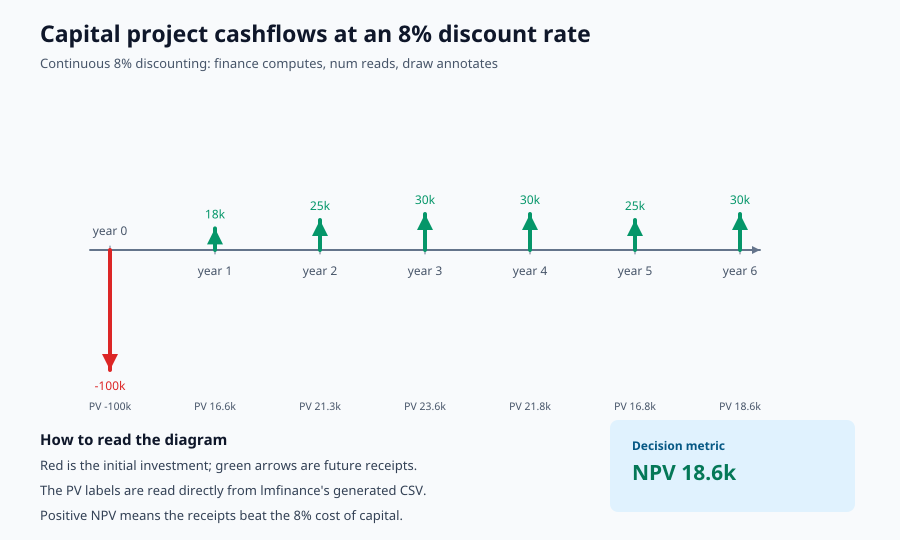
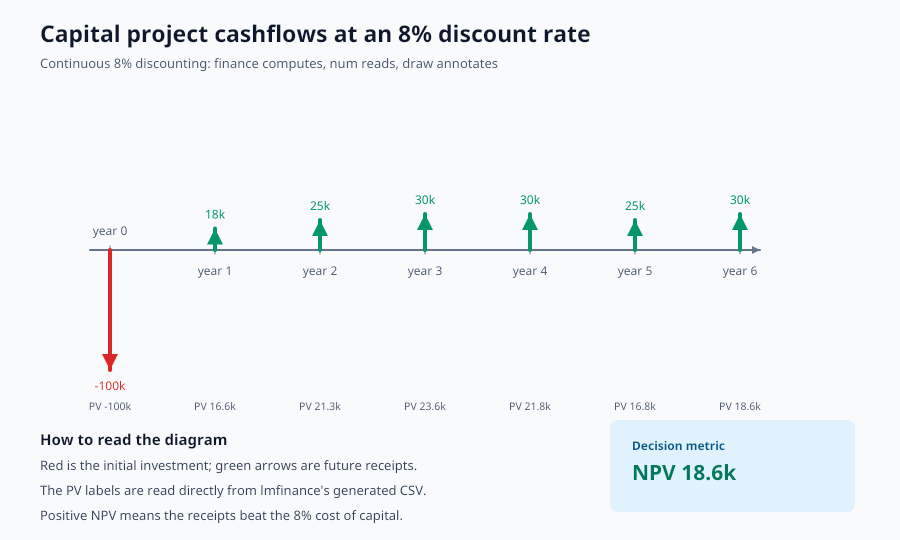
Migrate seven legacy-host compositions to lmvideo v0.1.36
02, 05, 11, 13 (lmdraw), 14, 34 (lmimg) and 38 (lmmagnum) now render with
lmvideo v0.1.36, reusing the verified ports from lmctlhq/lmvideo
examples/compositions. Pictures regenerated for 02/05/11/13/14 (font-metric
and antialiasing deltas only); 34/38 keep their committed slide renders.
Evidence: durable-memory/11-phase-7-2-gallery-migration.md.

diff --git a/README.md b/README.md
@@ -50,13 +50,13 @@ Each program installs its declared hosts on first use, executes every DSL block,
 
 |  |  |
 | :---: | :---: |
-| <a href="examples/01-oscillator-ode-plot.lms"><img src="docs/images/showcase-01-oscillator.png" width="420" alt="Damped oscillator dashboard"></a><br>**Damped oscillator dashboard** · lmnum → lmplot<br><sub><code>lmctl https://raw.githubusercontent.com/lmctl-ai/lmgallery/main/examples/01-oscillator-ode-plot.lms</code></sub> | <a href="examples/02-finance-cashflows-draw.lms"><img src="docs/images/showcase-02-finance-cashflows.png" width="420" alt="Discounted project cashflows"></a><br>**Discounted project cashflows** · lmfinance → lmnum → lmdraw<br><sub><code>lmctl https://raw.githubusercontent.com/lmctl-ai/lmgallery/main/examples/02-finance-cashflows-draw.lms</code></sub> |
+| <a href="examples/01-oscillator-ode-plot.lms"><img src="docs/images/showcase-01-oscillator.png" width="420" alt="Damped oscillator dashboard"></a><br>**Damped oscillator dashboard** · lmnum → lmplot<br><sub><code>lmctl https://raw.githubusercontent.com/lmctl-ai/lmgallery/main/examples/01-oscillator-ode-plot.lms</code></sub> | <a href="examples/02-finance-cashflows-draw.lms"><img src="docs/images/showcase-02-finance-cashflows.png" width="420" alt="Discounted project cashflows"></a><br>**Discounted project cashflows** · lmfinance → lmnum → lmvideo<br><sub><code>lmctl https://raw.githubusercontent.com/lmctl-ai/lmgallery/main/examples/02-finance-cashflows-draw.lms</code></sub> |
 | <a href="examples/03-weather-pulse-plot.lms"><img src="docs/images/showcase-03-weather-pulse.png" width="420" alt="Shallow-water gravity pulse"></a><br>**Shallow-water gravity pulse** · lmweather → lmplot<br><sub><code>lmctl https://raw.githubusercontent.com/lmctl-ai/lmgallery/main/examples/03-weather-pulse-plot.lms</code></sub> | <a href="examples/04-space-orbit-cad.lms"><img src="docs/images/showcase-04-space-orbit-cad.png" width="420" alt="Hohmann transfer: equal-time markers"></a><br>**Hohmann transfer: equal-time markers** · lmspace → lmcad<br><sub><code>lmctl https://raw.githubusercontent.com/lmctl-ai/lmgallery/main/examples/04-space-orbit-cad.lms</code></sub> |
-| <a href="examples/05-physics-free-body.lms"><img src="docs/images/showcase-05-physics-free-body.png" width="420" alt="Cargo-ramp force balance"></a><br>**Cargo-ramp force balance** · lmphysics → lmdraw<br><sub><code>lmctl https://raw.githubusercontent.com/lmctl-ai/lmgallery/main/examples/05-physics-free-body.lms</code></sub> | <a href="examples/06-fluid-poisson-plot.lms"><img src="docs/images/showcase-06-fluid-poisson-plot.png" width="420" alt="Finite-element Poisson field"></a><br>**Finite-element Poisson field** · lmfluid → lmplot<br><sub><code>lmctl https://raw.githubusercontent.com/lmctl-ai/lmgallery/main/examples/06-fluid-poisson-plot.lms</code></sub> |
+| <a href="examples/05-physics-free-body.lms"><img src="docs/images/showcase-05-physics-free-body.png" width="420" alt="Cargo-ramp force balance"></a><br>**Cargo-ramp force balance** · lmphysics → lmvideo<br><sub><code>lmctl https://raw.githubusercontent.com/lmctl-ai/lmgallery/main/examples/05-physics-free-body.lms</code></sub> | <a href="examples/06-fluid-poisson-plot.lms"><img src="docs/images/showcase-06-fluid-poisson-plot.png" width="420" alt="Finite-element Poisson field"></a><br>**Finite-element Poisson field** · lmfluid → lmplot<br><sub><code>lmctl https://raw.githubusercontent.com/lmctl-ai/lmgallery/main/examples/06-fluid-poisson-plot.lms</code></sub> |
 | <a href="examples/07-enzyme-response.lms"><img src="docs/images/showcase-07-enzyme-response.png" width="420" alt="Michaelis-Menten from mechanism"></a><br>**Michaelis-Menten from mechanism** · lmbio → lmplot<br><sub><code>lmctl https://raw.githubusercontent.com/lmctl-ai/lmgallery/main/examples/07-enzyme-response.lms</code></sub> | <a href="examples/08-cell-pattern.lms"><img src="docs/images/showcase-08-cell-pattern.png" width="420" alt="Cell growth and motility"></a><br>**Cell growth and motility** · lmcell → lmplot<br><sub><code>lmctl https://raw.githubusercontent.com/lmctl-ai/lmgallery/main/examples/08-cell-pattern.lms</code></sub> |
 | <a href="examples/09-photon-transport.lms"><img src="docs/images/showcase-09-photon-transport.png" width="420" alt="Photon attenuation and build-up in water"></a><br>**Photon attenuation and build-up in water** · lmparticle → lmplot<br><sub><code>lmctl https://raw.githubusercontent.com/lmctl-ai/lmgallery/main/examples/09-photon-transport.lms</code></sub> | <a href="examples/10-molecule-dimer-cad.lms"><img src="docs/images/showcase-10-molecule-dimer-cad.png" width="420" alt="Water dimer: hydrogen bond in 3D"></a><br>**Water dimer: hydrogen bond in 3D** · lmmolecule → lmcad → lmplot<br><sub><code>lmctl https://raw.githubusercontent.com/lmctl-ai/lmgallery/main/examples/10-molecule-dimer-cad.lms</code></sub> |
-| <a href="examples/11-particle-shield-layout.lms"><img src="docs/images/showcase-11-particle-shield-layout.png" width="420" alt="Shielding by mass: lead, aluminum, water"></a><br>**Shielding by mass: lead, aluminum, water** · lmparticle → lmdraw → lmplot<br><sub><code>lmctl https://raw.githubusercontent.com/lmctl-ai/lmgallery/main/examples/11-particle-shield-layout.lms</code></sub> | <a href="examples/12-weather-adjustment-gif.lms"><img src="docs/images/showcase-12-weather-adjustment.gif" width="420" alt="Geostrophic adjustment, animated"></a><br>**Geostrophic adjustment, animated** · lmweather → lmplot<br><sub><code>lmctl https://raw.githubusercontent.com/lmctl-ai/lmgallery/main/examples/12-weather-adjustment-gif.lms</code></sub> |
-| <a href="examples/13-bio-dosing-regimen.lms"><img src="docs/images/showcase-13-bio-dosing-regimen.png" width="420" alt="Dosing regimen inside a therapeutic window"></a><br>**Dosing regimen inside a therapeutic window** · lmbio → lmdraw → lmplot<br><sub><code>lmctl https://raw.githubusercontent.com/lmctl-ai/lmgallery/main/examples/13-bio-dosing-regimen.lms</code></sub> | <a href="examples/14-num-sweep-contact-sheet.lms"><img src="docs/images/showcase-14-num-sweep-contact-sheet.png" width="420" alt="Damping-ratio sweep as a contact sheet"></a><br>**Damping-ratio sweep as a contact sheet** · lmnum → lmplot → lmimg<br><sub><code>lmctl https://raw.githubusercontent.com/lmctl-ai/lmgallery/main/examples/14-num-sweep-contact-sheet.lms</code></sub> |
+| <a href="examples/11-particle-shield-layout.lms"><img src="docs/images/showcase-11-particle-shield-layout.png" width="420" alt="Shielding by mass: lead, aluminum, water"></a><br>**Shielding by mass: lead, aluminum, water** · lmparticle → lmvideo → lmplot<br><sub><code>lmctl https://raw.githubusercontent.com/lmctl-ai/lmgallery/main/examples/11-particle-shield-layout.lms</code></sub> | <a href="examples/12-weather-adjustment-gif.lms"><img src="docs/images/showcase-12-weather-adjustment.gif" width="420" alt="Geostrophic adjustment, animated"></a><br>**Geostrophic adjustment, animated** · lmweather → lmplot<br><sub><code>lmctl https://raw.githubusercontent.com/lmctl-ai/lmgallery/main/examples/12-weather-adjustment-gif.lms</code></sub> |
+| <a href="examples/13-bio-dosing-regimen.lms"><img src="docs/images/showcase-13-bio-dosing-regimen.png" width="420" alt="Dosing regimen inside a therapeutic window"></a><br>**Dosing regimen inside a therapeutic window** · lmbio → lmvideo → lmplot<br><sub><code>lmctl https://raw.githubusercontent.com/lmctl-ai/lmgallery/main/examples/13-bio-dosing-regimen.lms</code></sub> | <a href="examples/14-num-sweep-contact-sheet.lms"><img src="docs/images/showcase-14-num-sweep-contact-sheet.png" width="420" alt="Damping-ratio sweep as a contact sheet"></a><br>**Damping-ratio sweep as a contact sheet** · lmnum → lmplot → lmvideo<br><sub><code>lmctl https://raw.githubusercontent.com/lmctl-ai/lmgallery/main/examples/14-num-sweep-contact-sheet.lms</code></sub> |
 | <a href="examples/15-audio-eq-measurement.lms"><img src="docs/images/showcase-15-audio-eq-measurement.png" width="420" alt="Equalizer: designed versus measured"></a><br>**Equalizer: designed versus measured** · lmaudio → lmplot<br><sub><code>lmctl https://raw.githubusercontent.com/lmctl-ai/lmgallery/main/examples/15-audio-eq-measurement.lms</code></sub> | <a href="examples/16-kepler-conservation.lms"><img src="docs/images/showcase-16-kepler-conservation.png" width="420" alt="Kepler orbit energy check"></a><br>**Kepler orbit energy check** · lmspace → lmplot<br><sub><code>lmctl https://raw.githubusercontent.com/lmctl-ai/lmgallery/main/examples/16-kepler-conservation.lms</code></sub> |
 | <a href="examples/17-oscillator-driven-transient.lms"><img src="docs/images/showcase-17-oscillator-driven.png" width="420" alt="Driven oscillator: transient to steady state"></a><br>**Driven oscillator: transient to steady state** · lmnum → lmplot<br><sub><code>lmctl https://raw.githubusercontent.com/lmctl-ai/lmgallery/main/examples/17-oscillator-driven-transient.lms</code></sub> | <a href="examples/18-rigid-body-intermediate-axis.lms"><img src="docs/images/showcase-18-rigid-body-intermediate-axis.png" width="420" alt="Intermediate-axis tumble of a free plate"></a><br>**Intermediate-axis tumble of a free plate** · lmphysics → lmplot<br><sub><code>lmctl https://raw.githubusercontent.com/lmctl-ai/lmgallery/main/examples/18-rigid-body-intermediate-axis.lms</code></sub> |
 | <a href="examples/19-fem-poisson-error.lms"><img src="docs/images/showcase-19-fem-poisson-error.png" width="420" alt="Finite-element error against a known answer"></a><br>**Finite-element error against a known answer** · lmfluid → lmplot<br><sub><code>lmctl https://raw.githubusercontent.com/lmctl-ai/lmgallery/main/examples/19-fem-poisson-error.lms</code></sub> | <a href="examples/20-heat-spacetime.lms"><img src="docs/images/showcase-20-heat-spacetime.png" width="420" alt="Heat conduction in x and t"></a><br>**Heat conduction in x and t** · lmnum → lmplot<br><sub><code>lmctl https://raw.githubusercontent.com/lmctl-ai/lmgallery/main/examples/20-heat-spacetime.lms</code></sub> |
@@ -66,9 +66,9 @@ Each program installs its declared hosts on first use, executes every DSL block,
 | <a href="examples/27-sales-report-docx.lms"><img src="docs/images/showcase-27-sales-report.png" width="420" alt="Sales report with a chart per section"></a><br>**Sales report with a chart per section** · lmvideo → lmoffice<br><sub><code>lmctl https://raw.githubusercontent.com/lmctl-ai/lmgallery/main/examples/27-sales-report-docx.lms</code></sub> | <a href="examples/28-forecast-workbook-chart.lms"><img src="docs/images/showcase-28-forecast-workbook.png" width="420" alt="Forecast workbook with a native chart"></a><br>**Forecast workbook with a native chart** · lmnum → lmvideo → lmoffice<br><sub><code>lmctl https://raw.githubusercontent.com/lmctl-ai/lmgallery/main/examples/28-forecast-workbook-chart.lms</code></sub> |
 | <a href="examples/29-invoice-logo-glyph.lms"><img src="docs/images/showcase-29-invoice-logo.png" width="420" alt="Invoice with a generated logo and payment glyph"></a><br>**Invoice with a generated logo and payment glyph** · lmvideo → lmoffice<br><sub><code>lmctl https://raw.githubusercontent.com/lmctl-ai/lmgallery/main/examples/29-invoice-logo-glyph.lms</code></sub> | <a href="examples/30-resume-skills-bars.lms"><img src="docs/images/showcase-30-resume-skills.png" width="420" alt="Resume with a skills bar chart"></a><br>**Resume with a skills bar chart** · lmvideo → lmoffice<br><sub><code>lmctl https://raw.githubusercontent.com/lmctl-ai/lmgallery/main/examples/30-resume-skills-bars.lms</code></sub> |
 | <a href="examples/31-science-report-damping.lms"><img src="docs/images/showcase-31-science-report.png" width="420" alt="Science report: damping recovered from simulated peaks"></a><br>**Science report: damping recovered from simulated peaks** · lmnum → lmvideo → lmoffice<br><sub><code>lmctl https://raw.githubusercontent.com/lmctl-ai/lmgallery/main/examples/31-science-report-damping.lms</code></sub> | <a href="examples/32-revenue-bars-currency.lms"><img src="docs/images/showcase-32-revenue-bars.png" width="420" alt="Annual revenue bars with currency ticks"></a><br>**Annual revenue bars with currency ticks** · lmnum → lmplot<br><sub><code>lmctl https://raw.githubusercontent.com/lmctl-ai/lmgallery/main/examples/32-revenue-bars-currency.lms</code></sub> |
-| <a href="examples/33-wave-2d-animation.lms"><img src="docs/images/showcase-33-wave-2d.png" width="420" alt="Standing waves on a membrane, animated"></a><br>**Standing waves on a membrane, animated** · lmnum → lmvideo<br><sub><code>lmctl https://raw.githubusercontent.com/lmctl-ai/lmgallery/main/examples/33-wave-2d-animation.lms</code></sub> | <a href="examples/34-image-pipeline-contact-sheet.lms"><img src="docs/images/showcase-34-image-pipeline.png" width="420" alt="Image pipeline with a before/after contact sheet"></a><br>**Image pipeline with a before/after contact sheet** · lmimg → lmoffice<br><sub><code>lmctl https://raw.githubusercontent.com/lmctl-ai/lmgallery/main/examples/34-image-pipeline-contact-sheet.lms</code></sub> |
+| <a href="examples/33-wave-2d-animation.lms"><img src="docs/images/showcase-33-wave-2d.png" width="420" alt="Standing waves on a membrane, animated"></a><br>**Standing waves on a membrane, animated** · lmnum → lmvideo<br><sub><code>lmctl https://raw.githubusercontent.com/lmctl-ai/lmgallery/main/examples/33-wave-2d-animation.lms</code></sub> | <a href="examples/34-image-pipeline-contact-sheet.lms"><img src="docs/images/showcase-34-image-pipeline.png" width="420" alt="Image pipeline with a before/after contact sheet"></a><br>**Image pipeline with a before/after contact sheet** · lmvideo → lmoffice<br><sub><code>lmctl https://raw.githubusercontent.com/lmctl-ai/lmgallery/main/examples/34-image-pipeline-contact-sheet.lms</code></sub> |
 | <a href="examples/35-finance-curve-option-workbook.lms"><img src="docs/images/showcase-35-rates-options.png" width="420" alt="Rates and options desk pack: curve, option table and memo"></a><br>**Rates and options desk pack: curve, option table and memo** · lmfinance → lmvideo → lmoffice<br><sub><code>lmctl https://raw.githubusercontent.com/lmctl-ai/lmgallery/main/examples/35-finance-curve-option-workbook.lms</code></sub> | <a href="examples/36-html-link-check-report.lms"><img src="docs/images/showcase-36-link-check.png" width="420" alt="HTML link-check report with a terminal picture"></a><br>**HTML link-check report with a terminal picture** · lmhtml → lmvideo → lmoffice<br><sub><code>lmctl https://raw.githubusercontent.com/lmctl-ai/lmgallery/main/examples/36-html-link-check-report.lms</code></sub> |
-| <a href="examples/37-cert-inventory-docx.lms"><img src="docs/images/showcase-37-cert-inventory.png" width="420" alt="Certificate inventory from lmssl"></a><br>**Certificate inventory from lmssl** · lmssl → lmvideo → lmoffice<br><sub><code>lmctl https://raw.githubusercontent.com/lmctl-ai/lmgallery/main/examples/37-cert-inventory-docx.lms</code></sub> | <a href="examples/38-product-render-slide.lms"><img src="docs/images/showcase-38-product-render.png" width="420" alt="Product slide with a lmmagnum 3D render"></a><br>**Product slide with a lmmagnum 3D render** · lmmagnum → lmoffice<br><sub><code>lmctl https://raw.githubusercontent.com/lmctl-ai/lmgallery/main/examples/38-product-render-slide.lms</code></sub> |
+| <a href="examples/37-cert-inventory-docx.lms"><img src="docs/images/showcase-37-cert-inventory.png" width="420" alt="Certificate inventory from lmssl"></a><br>**Certificate inventory from lmssl** · lmssl → lmvideo → lmoffice<br><sub><code>lmctl https://raw.githubusercontent.com/lmctl-ai/lmgallery/main/examples/37-cert-inventory-docx.lms</code></sub> | <a href="examples/38-product-render-slide.lms"><img src="docs/images/showcase-38-product-render.png" width="420" alt="Product slide with an lmvideo 3D render"></a><br>**Product slide with an lmvideo 3D render** · lmvideo → lmoffice<br><sub><code>lmctl https://raw.githubusercontent.com/lmctl-ai/lmgallery/main/examples/38-product-render-slide.lms</code></sub> |
 | <a href="examples/39-audio-harmonics-slide.lms"><img src="docs/images/showcase-39-audio-harmonics.png" width="420" alt="Audio harmonics slide with a WAV file"></a><br>**Audio harmonics slide with a WAV file** · lmaudio → lmvideo → lmoffice<br><sub><code>lmctl https://raw.githubusercontent.com/lmctl-ai/lmgallery/main/examples/39-audio-harmonics-slide.lms</code></sub> | <a href="examples/40-bio-predator-prey-report.lms"><img src="docs/images/showcase-40-predator-prey-report.png" width="420" alt="Predator-prey lab report with an lmvideo figure"></a><br>**Predator-prey lab report with an lmvideo figure** · lmbio → lmvideo → lmoffice<br><sub><code>lmctl https://raw.githubusercontent.com/lmctl-ai/lmgallery/main/examples/40-bio-predator-prey-report.lms</code></sub> |
 | <a href="examples/41-weather-gravity-wave-speed.lms"><img src="docs/images/showcase-41-gravity-wave-speed-report.png" width="420" alt="Gravity-wave speed from a shallow-water pulse"></a><br>**Gravity-wave speed from a shallow-water pulse** · lmweather → lmvideo → lmoffice<br><sub><code>lmctl https://raw.githubusercontent.com/lmctl-ai/lmgallery/main/examples/41-weather-gravity-wave-speed.lms</code></sub> | <a href="examples/42-cell-growth-report.lms"><img src="docs/images/showcase-42-cell-growth-report.png" width="420" alt="Cell growth lab report with an lmvideo figure"></a><br>**Cell growth lab report with an lmvideo figure** · lmcell → lmvideo → lmoffice<br><sub><code>lmctl https://raw.githubusercontent.com/lmctl-ai/lmgallery/main/examples/42-cell-growth-report.lms</code></sub> |
 | <a href="examples/43-physics-lab-report.lms"><img src="docs/images/showcase-43-physics-lab-report.png" width="420" alt="Physics lab report: friction on a ramp, measured and checked"></a><br>**Physics lab report: friction on a ramp, measured and checked** · lmphysics → lmoffice → lmpdf → lmvideo<br><sub><code>lmctl https://raw.githubusercontent.com/lmctl-ai/lmgallery/main/examples/43-physics-lab-report.lms</code></sub> | <a href="examples/44-astronomy-observing-plan.lms"><img src="docs/images/showcase-44-observing-plan.png" width="420" alt="Observing plan: Word and slides from one Markdown body"></a><br>**Observing plan: Word and slides from one Markdown body** · lmspace → lmoffice → lmpdf → lmvideo<br><sub><code>lmctl https://raw.githubusercontent.com/lmctl-ai/lmgallery/main/examples/44-astronomy-observing-plan.lms</code></sub> |

diff --git a/examples/README.md b/examples/README.md
@@ -22,7 +22,7 @@ Every command runs from an empty directory and writes the listed image. Each com
 | <a href="#science-report-damping-recovered-from-simulated-peaks"><img src="../docs/images/showcase-31-science-report.png" width="400" alt="Science report: damping recovered from simulated peaks"></a><br>Science report: damping recovered from simulated peaks | <a href="#annual-revenue-bars-with-currency-ticks"><img src="../docs/images/showcase-32-revenue-bars.png" width="400" alt="Annual revenue bars with currency ticks"></a><br>Annual revenue bars with currency ticks |
 | <a href="#standing-waves-on-a-membrane-animated"><img src="../docs/images/showcase-33-wave-2d.png" width="400" alt="Standing waves on a membrane, animated"></a><br>Standing waves on a membrane, animated | <a href="#image-pipeline-with-a-before/after-contact-sheet"><img src="../docs/images/showcase-34-image-pipeline.png" width="400" alt="Image pipeline with a before/after contact sheet"></a><br>Image pipeline with a before/after contact sheet |
 | <a href="#rates-and-options-desk-pack-curve-option-table-and-memo"><img src="../docs/images/showcase-35-rates-options.png" width="400" alt="Rates and options desk pack: curve, option table and memo"></a><br>Rates and options desk pack: curve, option table and memo | <a href="#html-link-check-report-with-a-terminal-picture"><img src="../docs/images/showcase-36-link-check.png" width="400" alt="HTML link-check report with a terminal picture"></a><br>HTML link-check report with a terminal picture |
-| <a href="#certificate-inventory-from-lmssl"><img src="../docs/images/showcase-37-cert-inventory.png" width="400" alt="Certificate inventory from lmssl"></a><br>Certificate inventory from lmssl | <a href="#product-slide-with-a-lmmagnum-3d-render"><img src="../docs/images/showcase-38-product-render.png" width="400" alt="Product slide with a lmmagnum 3D render"></a><br>Product slide with a lmmagnum 3D render |
+| <a href="#certificate-inventory-from-lmssl"><img src="../docs/images/showcase-37-cert-inventory.png" width="400" alt="Certificate inventory from lmssl"></a><br>Certificate inventory from lmssl | <a href="#product-slide-with-an-lmvideo-3d-render"><img src="../docs/images/showcase-38-product-render.png" width="400" alt="Product slide with an lmvideo 3D render"></a><br>Product slide with an lmvideo 3D render |
 | <a href="#audio-harmonics-slide-with-a-wav-file"><img src="../docs/images/showcase-39-audio-harmonics.png" width="400" alt="Audio harmonics slide with a WAV file"></a><br>Audio harmonics slide with a WAV file | <a href="#predator-prey-lab-report-with-an-lmvideo-figure"><img src="../docs/images/showcase-40-predator-prey-report.png" width="400" alt="Predator-prey lab report with an lmvideo figure"></a><br>Predator-prey lab report with an lmvideo figure |
 | <a href="#gravity-wave-speed-from-a-shallow-water-pulse"><img src="../docs/images/showcase-41-gravity-wave-speed-report.png" width="400" alt="Gravity-wave speed from a shallow-water pulse"></a><br>Gravity-wave speed from a shallow-water pulse | <a href="#cell-growth-lab-report-with-an-lmvideo-figure"><img src="../docs/images/showcase-42-cell-growth-report.png" width="400" alt="Cell growth lab report with an lmvideo figure"></a><br>Cell growth lab report with an lmvideo figure |
 | <a href="#physics-lab-report-friction-on-a-ramp-measured-and-checked"><img src="../docs/images/showcase-43-physics-lab-report.png" width="400" alt="Physics lab report: friction on a ramp, measured and checked"></a><br>Physics lab report: friction on a ramp, measured and checked | <a href="#observing-plan-word-and-slides-from-one-markdown-body"><img src="../docs/images/showcase-44-observing-plan.png" width="400" alt="Observing plan: Word and slides from one Markdown body"></a><br>Observing plan: Word and slides from one Markdown body |
@@ -42,9 +42,9 @@ lmctl https://raw.githubusercontent.com/lmctl-ai/lmgallery/main/examples/01-osci
 
 ## Discounted project cashflows
 
-lmfinance discounts project cashflows continuously at 8%; lmnum reads those computed values and lmdraw draws their amounts, present values and net present value.
+lmfinance discounts project cashflows continuously at 8%; lmnum reads those computed values and lmvideo draws their amounts, present values and net present value.
 
-Hosts: lmfinance → lmnum → lmdraw. Output: `images/showcase-02-finance-cashflows.png`.
+Hosts: lmfinance → lmnum → lmvideo. Output: `images/showcase-02-finance-cashflows.png`.
 
 ```sh
 lmctl https://raw.githubusercontent.com/lmctl-ai/lmgallery/main/examples/02-finance-cashflows-draw.lms
@@ -72,9 +72,9 @@ lmctl https://raw.githubusercontent.com/lmctl-ai/lmgallery/main/examples/04-spac
 
 ## Cargo-ramp force balance
 
-lmphysics measures acceleration of a six-kilogram cargo block on a 24-degree ramp; lmdraw draws the force balance with correctly oriented, consistently scaled vectors.
+lmphysics measures acceleration of a six-kilogram cargo block on a 24-degree ramp; lmvideo draws the force balance with correctly oriented, consistently scaled vectors.
 
-Hosts: lmphysics → lmdraw. Output: `images/showcase-05-physics-free-body.png`.
+Hosts: lmphysics → lmvideo. Output: `images/showcase-05-physics-free-body.png`.
 
 ```sh
 lmctl https://raw.githubusercontent.com/lmctl-ai/lmgallery/main/examples/05-physics-free-body.lms
@@ -132,9 +132,9 @@ lmctl https://raw.githubusercontent.com/lmctl-ai/lmgallery/main/examples/10-mole
 
 ## Shielding by mass: lead, aluminum, water
 
-lmparticle transports 662 keV photons through lead, aluminum and water slabs of equal mass per area; lmdraw draws the three layouts to scale; lmplot combines that layout with the measured transmission curves, showing that per gram lead is only modestly better where Compton scattering dominates.
+lmparticle transports 662 keV photons through lead, aluminum and water slabs of equal mass per area; lmvideo draws the three layouts to scale; lmplot combines that layout with the measured transmission curves, showing that per gram lead is only modestly better where Compton scattering dominates.
 
-Hosts: lmparticle → lmdraw → lmplot. Output: `images/showcase-11-particle-shield-layout.png`.
+Hosts: lmparticle → lmvideo → lmplot. Output: `images/showcase-11-particle-shield-layout.png`.
 
 ```sh
 lmctl https://raw.githubusercontent.com/lmctl-ai/lmgallery/main/examples/11-particle-shield-layout.lms
@@ -152,9 +152,9 @@ lmctl https://raw.githubusercontent.com/lmctl-ai/lmgallery/main/examples/12-weat
 
 ## Dosing regimen inside a therapeutic window
 
-lmbio integrates a one-compartment oral model for 800 mg a day given as 400 mg every 12 h or 800 mg daily, restarting at each dose; both share the asserted average level 7.2 mg/L but only the twice-daily regimen stays inside 3-12 mg/L. lmdraw draws the compartment model; lmplot overlays window, average and both profiles.
+lmbio integrates a one-compartment oral model for 800 mg a day given as 400 mg every 12 h or 800 mg daily, restarting at each dose; both share the asserted average level 7.2 mg/L but only the twice-daily regimen stays inside 3-12 mg/L. lmvideo draws the compartment model; lmplot overlays window, average and both profiles.
 
-Hosts: lmbio → lmdraw → lmplot. Output: `images/showcase-13-bio-dosing-regimen.png`.
+Hosts: lmbio → lmvideo → lmplot. Output: `images/showcase-13-bio-dosing-regimen.png`.
 
 ```sh
 lmctl https://raw.githubusercontent.com/lmctl-ai/lmgallery/main/examples/13-bio-dosing-regimen.lms
@@ -162,9 +162,9 @@ lmctl https://raw.githubusercontent.com/lmctl-ai/lmgallery/main/examples/13-bio-
 
 ## Damping-ratio sweep as a contact sheet
 
-lmnum integrates the unit-step response of a second-order system for six damping ratios and checks each overshoot against exp(-pi zeta / sqrt(1 - zeta^2)); lmplot draws one panel per case; lmimg assembles the panels into a labelled report sheet with a header band.
+lmnum integrates the unit-step response of a second-order system for six damping ratios and checks each overshoot against exp(-pi zeta / sqrt(1 - zeta^2)); lmplot draws one panel per case; lmvideo assembles the panels into a labelled report sheet with a header band.
 
-Hosts: lmnum → lmplot → lmimg. Output: `images/showcase-14-num-sweep-contact-sheet.png`.
+Hosts: lmnum → lmplot → lmvideo. Output: `images/showcase-14-num-sweep-contact-sheet.png`.
 
 ```sh
 lmctl https://raw.githubusercontent.com/lmctl-ai/lmgallery/main/examples/14-num-sweep-contact-sheet.lms
@@ -362,9 +362,9 @@ lmctl https://raw.githubusercontent.com/lmctl-ai/lmgallery/main/examples/33-wave
 
 ## Image pipeline with a before/after contact sheet
 
-lmimg builds a procedural landscape, runs levels, unsharp and colour-curve steps, measures SSIM and PSNR against the original, and writes a three-panel contact sheet; lmoffice places the sheet on an Open XML slide with the measured values as bullets. The picture is a LibreOffice render of the slide.
+lmvideo builds a procedural landscape, runs levels, unsharp and colour-curve steps, measures SSIM and PSNR against the original, and writes a three-panel contact sheet; lmoffice places the sheet on an Open XML slide with the measured values as bullets. The picture is a LibreOffice render of the slide.
 
-Hosts: lmimg → lmoffice. Output: `images/showcase-34-image-pipeline.png`.
+Hosts: lmvideo → lmoffice. Output: `images/showcase-34-image-pipeline.png`.
 
 ```sh
 lmctl https://raw.githubusercontent.com/lmctl-ai/lmgallery/main/examples/34-image-pipeline-contact-sheet.lms
@@ -400,11 +400,11 @@ Hosts: lmssl → lmvideo → lmoffice. Output: `images/showcase-37-cert-inventor
 lmctl https://raw.githubusercontent.com/lmctl-ai/lmgallery/main/examples/37-cert-inventory-docx.lms
 ```
 
-## Product slide with a lmmagnum 3D render
+## Product slide with an lmvideo 3D render
 
-lmmagnum builds a sensor housing from primitives (box body, teal cap, lens, mounting rings), lights it and renders a 900 x 540 PNG; lmoffice places the render on a product slide with the specification bullets and speaker notes. The picture is a LibreOffice render of the slide.
+lmvideo builds a sensor housing from primitives (box body, teal cap, lens, mounting rings), lights it and renders a 900 x 540 PNG; lmoffice places the render on a product slide with the specification bullets and speaker notes. The picture is a LibreOffice render of the slide.
 
-Hosts: lmmagnum → lmoffice. Output: `images/showcase-38-product-render.png`.
+Hosts: lmvideo → lmoffice. Output: `images/showcase-38-product-render.png`.
 
 ```sh
 lmctl https://raw.githubusercontent.com/lmctl-ai/lmgallery/main/examples/38-product-render-slide.lms
